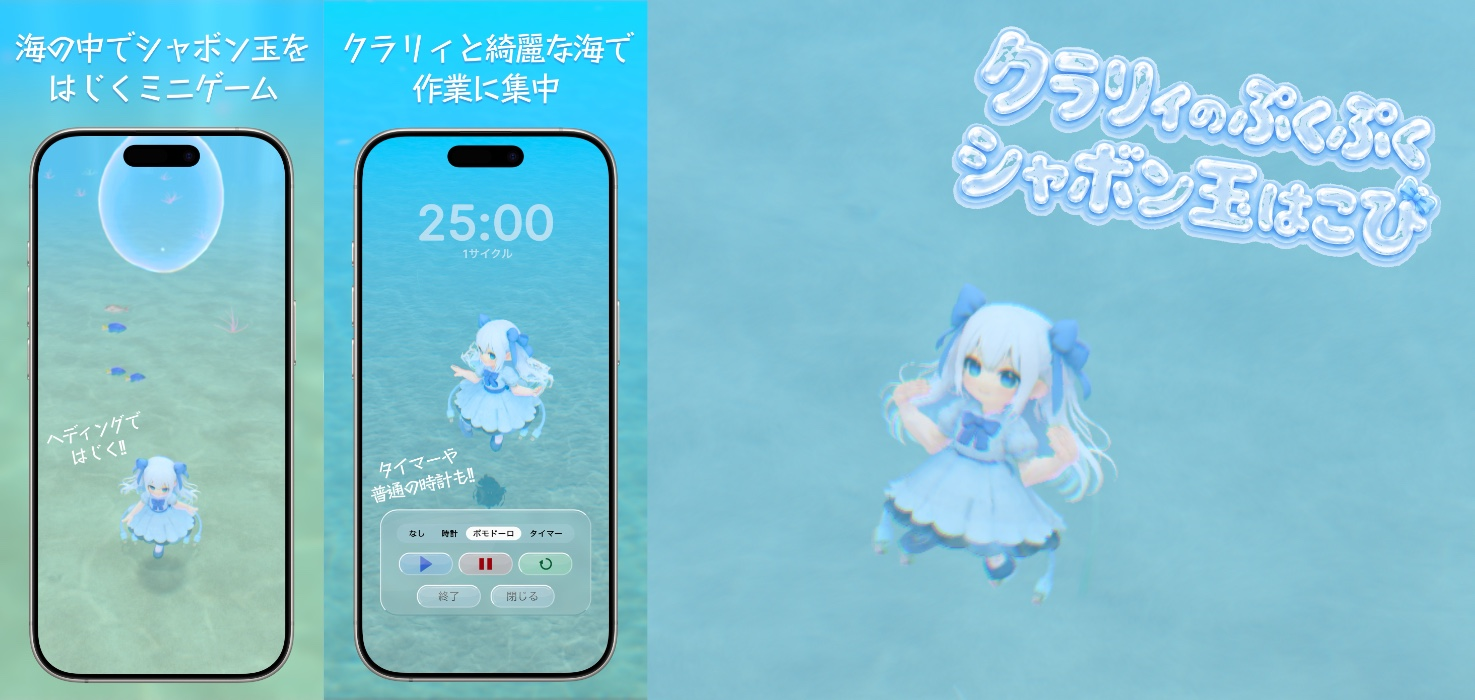
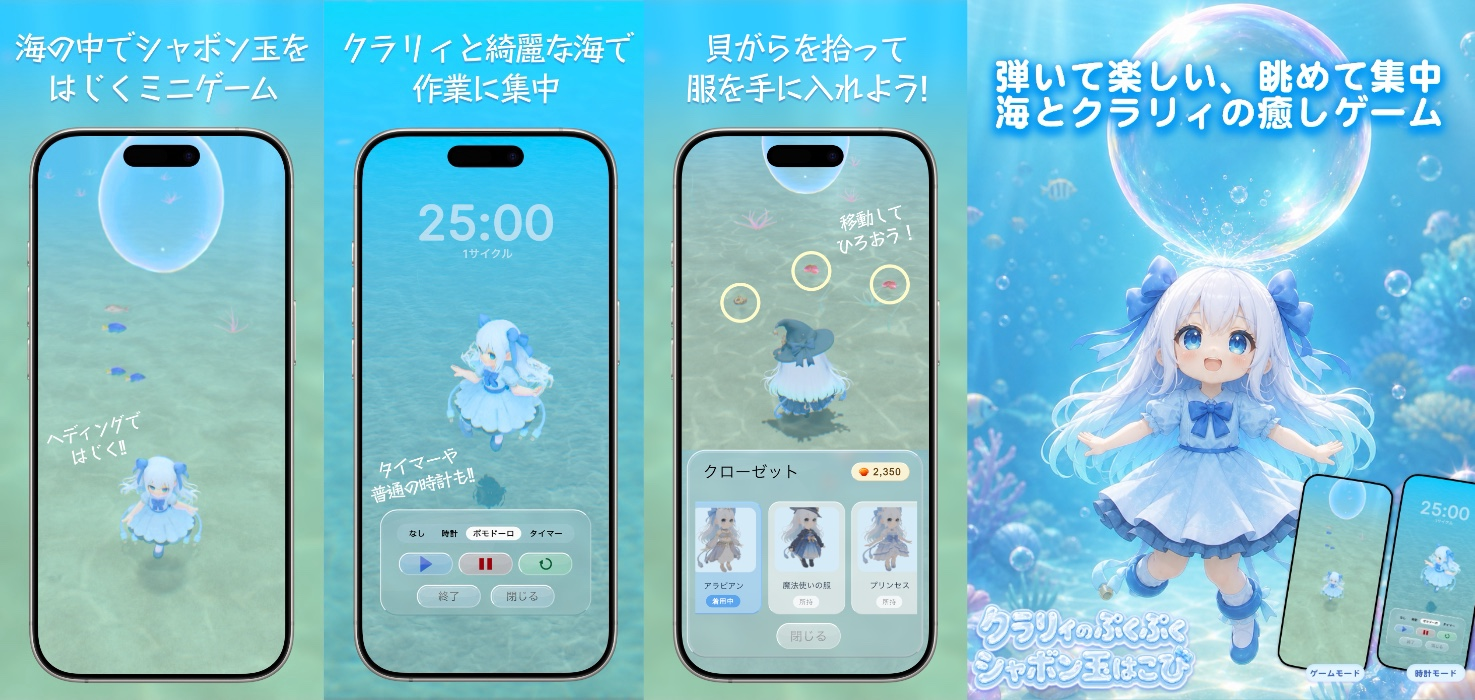
20260811

diff --git a/information_bubblepop.html b/information_bubblepop.html
@@ -8,7 +8,7 @@
     <link rel="shortcut icon" type="image/x-icon" href="./HorseFavicon.png">
     <link rel="apple-touch-icon" href="./HorseFaviconiOS.png" sizes="180x180">
     <link rel="icon" type="image/png" href="./HorseFaviconAndroid.png" sizes="192x192">
-    <title>Info_Tamaire</title>
+    <title>Info_BubblePop</title>
     <link rel="stylesheet" href="./style.css">
     <!-- Google tag (gtag.js) -->
         <script async src="https://www.googletagmanager.com/gtag/js?id=G-5WVMPG8EV6"></script>
@@ -54,8 +54,8 @@
                     時計やポモドーロタイマーの機能もあり一緒に作業を集中することもできます。<br>
                     実在の魚をベースに水中の表現にこだわりました。日の出・日没（愛媛県伊予市の時刻）に連動して海の色が変化します。<br>
                     貝がらをあつめてクラリィの着せ替えもできます。<br>
-                    海の美しさとシャボン玉を弾く心地よい振動を楽しんでください。<br>
-
+                    海の美しさとシャボン玉を弾く心地よい振動を楽しんでください。<br><br>
+                    <img src="clarie_ad.jpg" style="width: 50%; height: auto; display: block; margin: 0 auto;">
                     
                 </p>
             <br><br><br><br>

diff --git a/products.html b/products.html
@@ -77,7 +77,7 @@
             <br><br><br>
             <br>
 
-        <hr noshade>
+        <hr id="bubble_intro" noshade>
             <br>
             <div class="buddge">
                 <p>2026</p>
